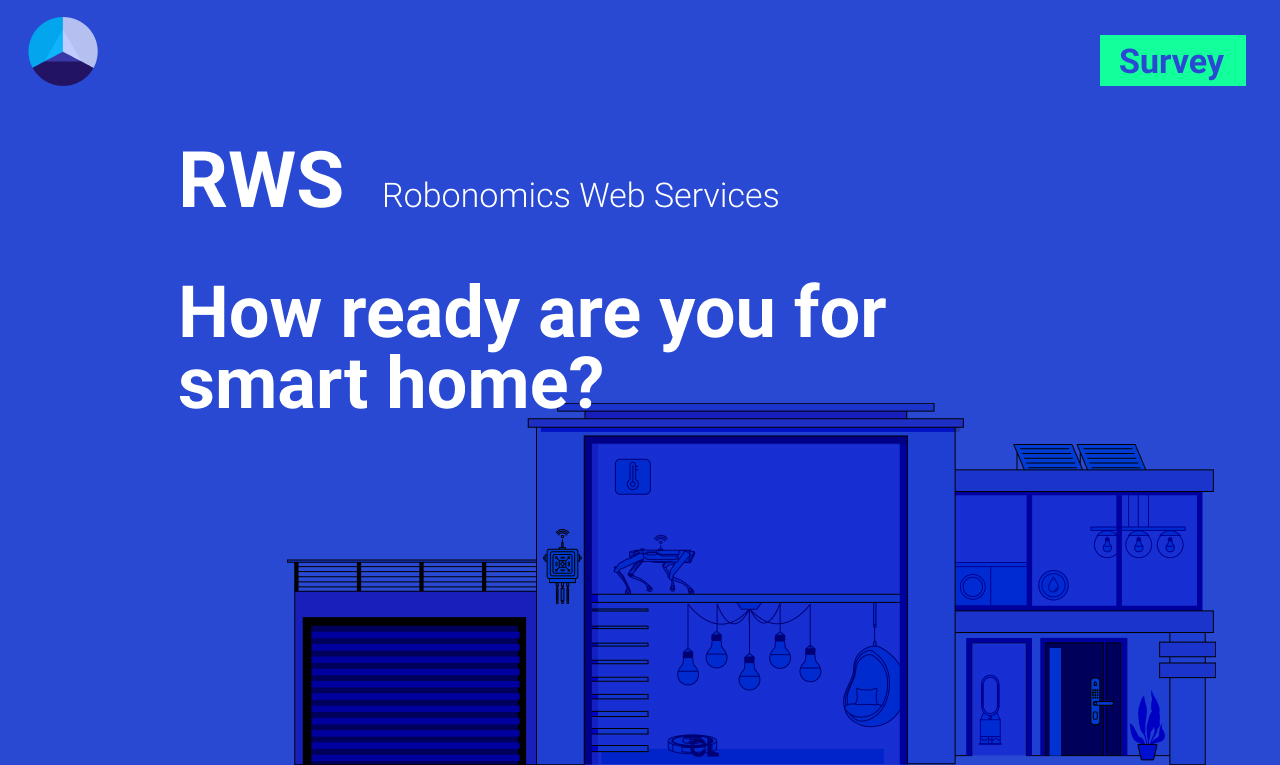
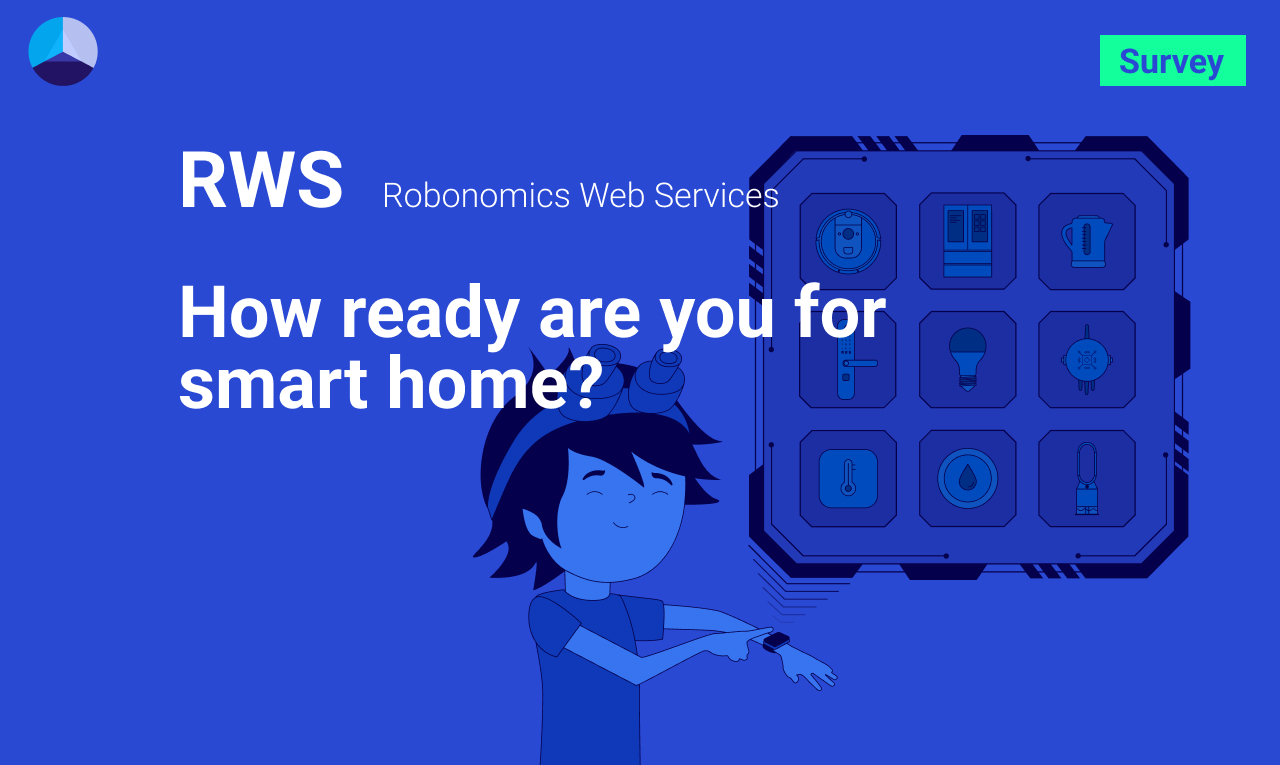
fixed share and added pictures

diff --git a/src/pages/SmartHomeSurvey.vue b/src/pages/SmartHomeSurvey.vue
@@ -47,7 +47,7 @@
             Almost there...
           </h3>
           <div class="survey-get-results__form">
-            <QuizForm @showResults="showResults" :results="responses"/>
+            <QuizForm @showResults="showResults" :results="responses" :score ="result"/>
           </div>
         </div>
       </div>
@@ -56,7 +56,8 @@
       <!-- results -->
       <div class="survey-results layout animate-inside-fast in-viewport" v-in-viewport.once v-if="isResultsShown">
         <div class="grid grid-2">
-          <div class="survey-results__image" width="50%">
+          <div class="survey-results__image" >
+            <g-image :src="require(`!!assets-loader!@/assets/images/${result.img}`)" :alt="result.title"/>
           </div>
           <div class="survey-results__text">
             <h3>{{ result.title }}</h3>
@@ -67,7 +68,7 @@
 
       <div class="survey-results__actions layout" v-if="isResultsShown">
         <div class="share">
-          <button disabled @click="showSharePopup = true" class="share__btn">Share</button>
+          <button @click="showSharePopup = true" class="share__btn">Share</button>
         </div>
 
         <SharePopup :class="{'active': showSharePopup}" @closeModal="closeModal" :result="result" />
@@ -123,6 +124,8 @@ export default {
       result: {
         text: '',
         title: '',
+        plainText: '',
+        emailPic: ''
       },
 
       url: '',
@@ -173,12 +176,21 @@ export default {
       if(countOne > countThree && countOne > countTwo) {
         this.result.title = `Great news!`
         this.result.text = `<span class="text-with-bg">You're all set for a smart home</span>. Just be careful with which cloud service you choose to centralize your devices and data. Otherwise, you may find your fridge ordering milk without your consent, and your vacuum secretly plotting against you.`
+        this.result.plainText = `You're all set for a smart home. Just be careful with which cloud service you choose to centralize your devices and data. Otherwise, you may find your fridge ordering milk without your consent, and your vacuum secretly plotting against you.`
+        this.result.img = 'survey_sh_success.png'
+        this.result.emailPic = 'https://static.robonomics.network/email/regular/robonomics-cloud-quiz-1/guy-smart-home-1.png';
       } else if (countTwo > countThree && countTwo > countOne || countTwo === countOne || countTwo === countThree) {
         this.result.title = `Hmm…`
         this.result.text = `<span class="text-with-bg">It looks like a smart home might not be your cup of tea</span>. But hey, who needs automation when you've got hands to switch things on and off, right? And don't worry, you can still enjoy modern conveniences in your home by incorporating a few smart devices to make life easier.`
+        this.result.plainText = `It looks like a smart home might not be your cup of tea. But hey, who needs automation when you've got hands to switch things on and off, right? And don't worry, you can still enjoy modern conveniences in your home by incorporating a few smart devices to make life easier.`
+        this.result.img = 'survey_sh_medium.png'
+        this.result.emailPic = 'https://static.robonomics.network/email/regular/robonomics-cloud-quiz-1/guy-smart-home-2.png';
       } else {
         this.result.title = `Uh-oh!`
         this.result.text = `<span class="text-with-bg">It seems like a smart home just isn't your jam</span>. That's okay, you can always rely on carrier pigeons to get messages across, and candles to light up your home.`
+        this.result.plainText = `It seems like a smart home just isn't your jam. That's okay, you can always rely on carrier pigeons to get messages across, and candles to light up your home.`
+        this.result.img = 'survey_sh_low.png'
+        this.result.emailPic = 'https://static.robonomics.network/email/regular/robonomics-cloud-quiz-1/guy-smart-home-3.png';
       }
     },
 
@@ -242,8 +254,10 @@ export default {
 
   .survey-results .grid {
     padding: var(--space);
-    min-height: 450px;
+    min-height: 520px;
     background-color: var(--color-light);
+    align-items: center;
+    justify-items: center;
   }
 
   .survey-results__text h3,
@@ -253,6 +267,11 @@ export default {
   .survey-results__text p {
     font-size: calc(var(--base-font-size) * 1.5);
     font-weight: 400;
+  }
+
+  .survey-results__image {
+    max-width: 425px;
+    width: 100%;
   }
 
   .survey-results__actions {
@@ -271,6 +290,12 @@ export default {
     background-repeat: no-repeat;
     background-size: 50px 50px;
     background-position: right center;
+  }
+
+  @media screen and (max-width: 1090px) {
+    .survey .grid-2 {
+      grid-template-columns: 1fr;
+    }
   }
 
   @media screen and (max-width: 950px) {

diff --git a/src/components/QuizForm.vue b/src/components/QuizForm.vue
@@ -21,6 +21,24 @@
       :data-gsp-data="result.response" 
     />
 
+    <input
+      type="hidden" 
+      data-gsp-name="Result Title" 
+      :data-gsp-data="score.title" 
+    >
+
+    <input
+      type="hidden" 
+      data-gsp-name="Result Text" 
+      :data-gsp-data="score.plainText" 
+    >
+
+    <input
+      type="hidden" 
+      data-gsp-name="Result Pic" 
+      :data-gsp-data="score.emailPic" 
+    >
+
     <div class="google-sheets-form__actions">
       <button @click="onSubmit" v-if="result !== 'success'" class="button large" :class="{'wait': result === 'wait'}"  :disabled="result === 'error' || result === 'wait'">
         <span class="button-default" v-if="result !== 'wait'"></span>
@@ -33,7 +51,7 @@
     </div>
 
     <span>or</span>
-    <button @click="onSubmit">
+    <button @click="onSubmit('no-email')">
       Continue without email
     </button>
 
@@ -50,6 +68,9 @@ export default {
   props: {
     results: {
       type: Array
+    },
+    score: {
+      type: Object
     }
   },
     
@@ -65,7 +86,11 @@ export default {
   },
 
   methods: {
-    onSubmit() {
+    onSubmit(noEmail) {
+
+      if(noEmail === 'no-email') {
+        this.data_email = '';
+      }
 
       this.interval = setInterval(() => {
         this.result = this.$response
@@ -98,7 +123,6 @@ export default {
         response: this.results[i]
       })
     }
-
   },
 }
 </script>

diff --git a/src/templates/GreatResult.vue b/src/templates/GreatResult.vue
@@ -2,15 +2,7 @@
     <MetaInfo
       pageTitle="Great news!"
       pageDescription="You're all set for a smart home. Just be careful with which cloud service you choose to centralize your devices and data. Otherwise, you may find your fridge ordering milk without your consent, and your vacuum secretly plotting against you."
-      pageImage="/OG/result-success.png"
+      pageImage="/OG/survey_result_sh_success.jpg"
       redirect
     />
-  </template>
-
-<!-- <script>
-export default {
-  components: {
-      HomeAssistantSurvey: () => import('~/components/HomeAssistantSurvey.vue'),
-    }
-  }
-</script> -->
+</template>

diff --git a/src/templates/MediumResult.vue b/src/templates/MediumResult.vue
@@ -2,7 +2,7 @@
   <MetaInfo
     pageTitle="Hmm…"
     pageDescription="It looks like a smart home might not be your cup of tea. But hey, who needs automation when you've got hands to switch things on and off, right? And don't worry, you can still enjoy modern conveniences in your home by incorporating a few smart devices to make life easier."
-    pageImage = '/OG/result-medium.png'
+    pageImage = '/OG/survey_result_sh_medium.jpg'
     redirect
   />
 </template>

diff --git a/src/templates/LowResult.vue b/src/templates/LowResult.vue
@@ -2,7 +2,7 @@
   <MetaInfo
     pageTitle="Uh-oh!"
     pageDescription="It seems like a smart home just isn't your jam. That's okay, you can always rely on carrier pigeons to get messages across, and candles to light up your home."
-    pageImage = '/OG/result-low.png'
+    pageImage = '/OG/survey_result_sh_low.jpg'
     redirect
   />
 </template>

diff --git a/src/components/QuestionItem.vue b/src/components/QuestionItem.vue
@@ -40,6 +40,10 @@ export default {
     font-size: calc(var(--base-font-size) * 2.2)
   }
 
+  .survey__item {
+    margin-top: calc(var(--space) * 2.3);
+  }
+
   .survey__wrapper {
     display: flex;
     flex-direction: column;

diff --git a/src/components/QuizProgress.vue b/src/components/QuizProgress.vue
@@ -27,7 +27,7 @@ export default {
 <style scoped>
 
   .quiz-progress {
-    margin-bottom: calc(var(--space) * 2.3);
+    margin-bottom: 0;
   }
 
   h2 {
